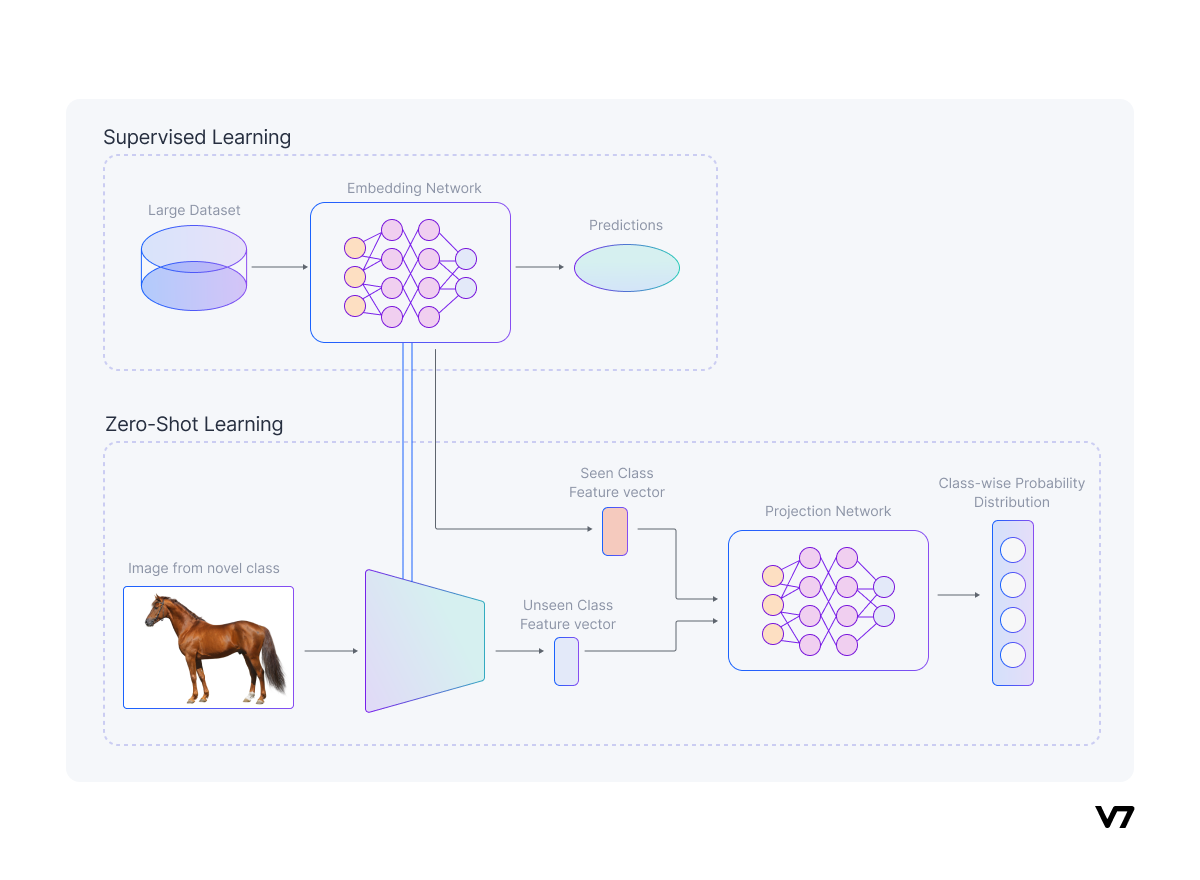
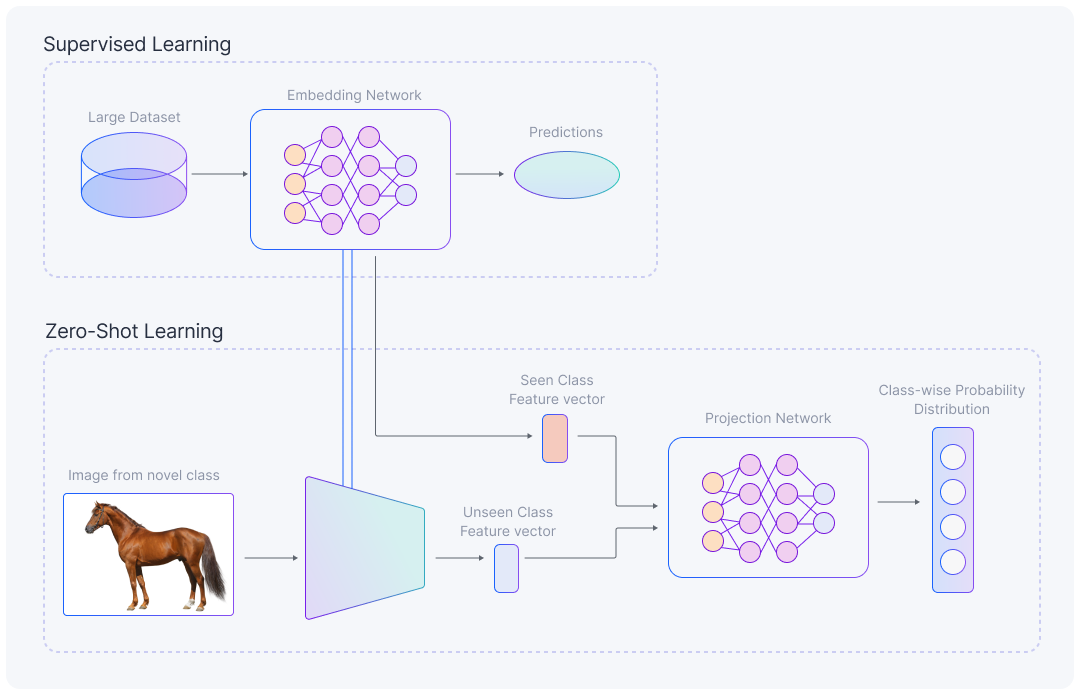
Fix images in zero shot readme

diff --git a/zero-shoot/README.md b/zero-shoot/README.md
@@ -6,28 +6,32 @@ The selected model correspond to [clip-vit-base-patch32](https://huggingface.co/
 
 ## About Zero-Shot image classification
 
-Zero-shot image classification is a cutting-edge computer vision task in which a model is trained to recognize new classes of objects without having seen any examples of those classes during training. It is a variation of transfer learning, where the knowledge acquired during the training of one model is transferred to classify novel classes that were not present in the original training data. For instance, a model that has been trained to differentiate cats from dogs can be used to classify images others animal like horses [1](https://huggingface.co/tasks/zero-shot-image-classification).
+Zero-shot image classification is a cutting-edge computer vision task in which a model is trained to recognize new classes of objects without having seen any examples of those classes during training. It is a variation of transfer learning, where the knowledge acquired during the training of one model is transferred to classify novel classes that were not present in the original training data. For instance, a model that has been trained to differentiate cats from dogs can be used to classify images others animal like horses [[1]](https://huggingface.co/tasks/zero-shot-image-classification).
 
-![Zero-Shot Learning Process. The embedding network trained on a large data set is used to extract a feature vector with which the probability of fitting one of the given labels is calculated. image obtained from [2](https://www.v7labs.com/blog/zero-shot-learning-guide)](zero-shoot/zero-shot classification scheme.png)
+| ![zero-shot%20classification%20scheme.png](https://github.com/SebastianArriagadaS/unsupervised_ml/blob/main/zero-shoot/zero-shot%20classification%20scheme.png) | 
+|:--:| 
+| *The process of zero-shot learning involves the use of an embedding network trained on a large dataset to extract a feature vector. This feature vector is then used to calculate the probability of the input fitting one of the given labels. image obtained from [www.v7labs.com](https://www.v7labs.com/blog/zero-shot-learning-guide)* |
 
 In this learning paradigm, the data consists of three essential components: 
 - Seen data: Are images and their corresponding labels, which the model uses to learn during training.
 - Unseen data: Only consist in labels, and no images are provided.
 - Auxiliary information: This can be in the form of textual descriptions or word embeddings and helps the model to generalize to new classes.
 
-The use of zero-shot image classification is crucial as it allows models to learn more efficiently and effectively. Traditional image classification models require large amounts of labeled data for each class to be recognized, which can be time-consuming and expensive to collect. With zero-shot image classification, models can learn to recognize new classes using only a small amount of additional information, such as class attributes or semantic relationships between classes, which is often easier and cheaper to obtain [3](https://arxiv.org/abs/1707.00600).
+The use of zero-shot image classification is crucial as it allows models to learn more efficiently and effectively. Traditional image classification models require large amounts of labeled data for each class to be recognized, which can be time-consuming and expensive to collect. With zero-shot image classification, models can learn to recognize new classes using only a small amount of additional information, such as class attributes or semantic relationships between classes, which is often easier and cheaper to obtain [[2]](https://arxiv.org/abs/1707.00600).
 
 ## About the model
 
 The model correspond to a CLIP (Contrastive Language-Image Pretraining) version, which is a transformer-based model developed by OpenAI in 2021. It is designed to make zero-shot image classification more effective.
 
-The CLIP model consists of two parts: a text transformer for encoding text embeddings and a vision transformer (ViT) for encoding image embeddings. Both models are optimized during pretraining to align similar text and images in vector space. This is achieved by taking image-text pairs and pushing their output vectors closer in vector space while separating the vectors of non-pairs [4](https://www.pinecone.io/learn/zero-shot-image-classification-clip/).
+The CLIP model consists of two parts: a text transformer for encoding text embeddings and a vision transformer (ViT) for encoding image embeddings. Both models are optimized during pretraining to align similar text and images in vector space. This is achieved by taking image-text pairs and pushing their output vectors closer in vector space while separating the vectors of non-pairs [[3]](https://www.pinecone.io/learn/zero-shot-image-classification-clip/).
 
-![CLIP Architecture. image obtained from [4](https://www.pinecone.io/learn/zero-shot-image-classification-clip/)](zero-shoot/zero-shot-image-classification-clip.png)
+| ![zero-shot-image-classification-clip.png](https://github.com/SebastianArriagadaS/unsupervised_ml/blob/main/zero-shoot/zero-shot-image-classification-clip.png) | 
+|:--:| 
+| *CLIP Architecture. image obtained from [https://www.pinecone.io](https://www.pinecone.io/learn/zero-shot-image-classification-clip/)* |
 
 One of the key features of CLIP is its use of a large dataset of 400M text-image pairs scraped from across the internet during its pretraining process. This large dataset size allows CLIP to build a strong understanding of general textual concepts displayed within images. Additionally, CLIP requires only image-text pairs rather than specific class labels, thanks to its contrastive rather than classification-focused training function. This type of data is abundant in today’s social-media-centric world.
 
-In specific, this model uses a ViT-B/32 Transformer architecture as an image encoder and uses a masked self-attention Transformer as a text encoder. These encoders are trained to maximize the similarity of (image, text) pairs via a contrastive loss [5](https://huggingface.co/openai/clip-vit-base-patch32).
+In specific, this model uses a ViT-B/32 Transformer architecture as an image encoder and uses a masked self-attention Transformer as a text encoder. These encoders are trained to maximize the similarity of (image, text) pairs via a contrastive loss [[4]](https://huggingface.co/openai/clip-vit-base-patch32).
 
 ### Limitations and biases
 
@@ -61,9 +65,11 @@ The following table shows the selected labels.
 | 39 | Bypass on left | 40 | Roundabout | 41 | End of no overtaking zone |
 | 42 | End of no overtaking zone for trucks |
 
-![Random images from the dataset](zero-shoot/labels.png)
+| ![zero-shoot/labels.png](https://github.com/SebastianArriagadaS/unsupervised_ml/blob/main/zero-shoot/labels.png) | 
+|:--:| 
+| *Random selected images from the dataset.* |
 
-The hypotesis template is the following: "This is an image of a {} road sign."
+The hypothesis template is as follows: "This is an image of a {} road sign."
 
 ## Installation
 
